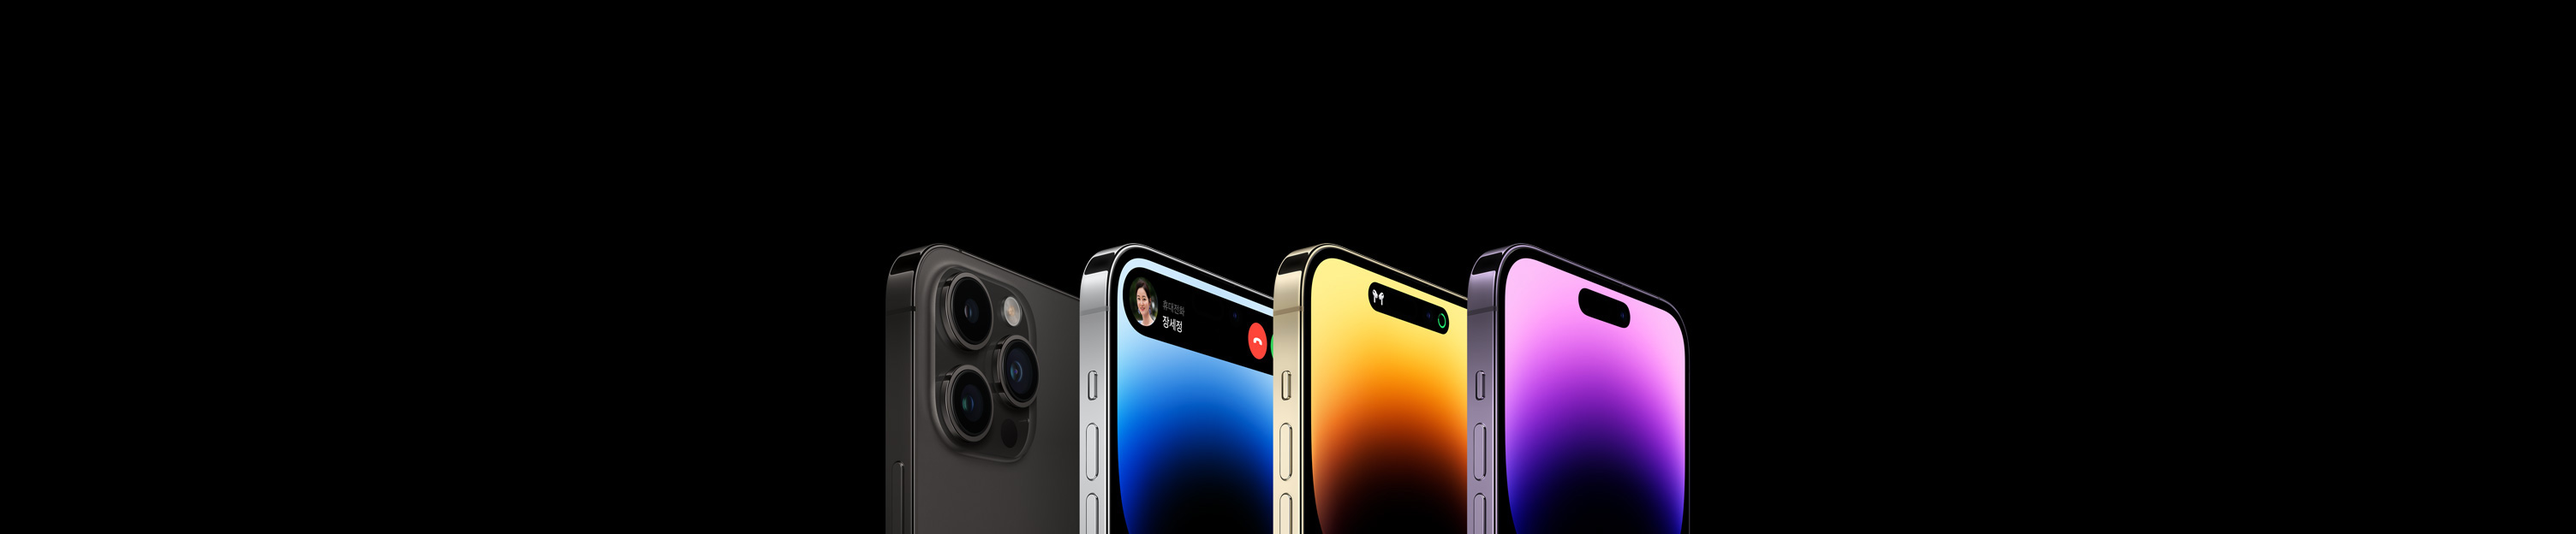
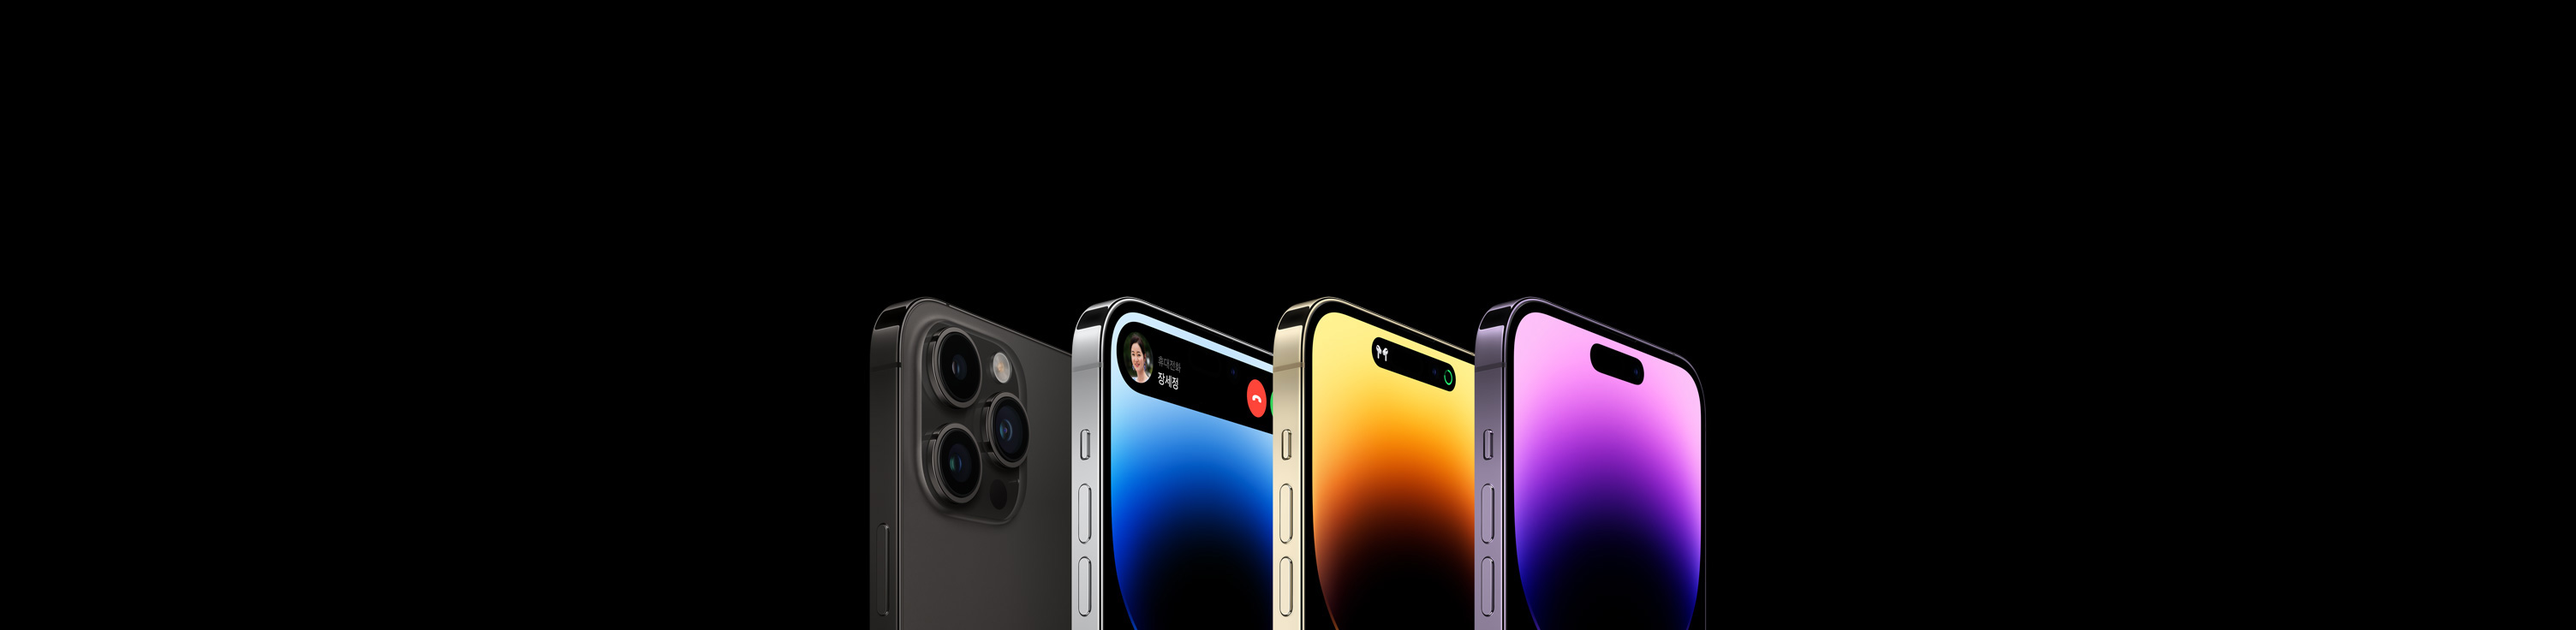
detail

Changed region(s): [[0.3125, 0.4567, 0.6875, 1.0]]

diff --git a/index.html b/index.html
@@ -10,108 +10,118 @@
 <body>
   <header>
     <div class="nav">
-      <ul>
-        <a href="/">사과</a>
-        <li>스토어</li>
-        <li>Mac</li>
-        <li>iPad</li>
-        <li>iPhone</li>
-        <li>Watch</li>
-        <li>AirPods</li>
-        <li>TV 및 홈</li>
-        <li>엔터테인먼트</li>
-        <li>액세서리</li>
-        <li>고객지원</li>
-        <li>서치아이콘</li>
-        <li>장바구니아이콘</li>
-      </ul>
+      <div class="menu">
+        <ul>
+          <a href="/">사과</a>
+          <li>스토어</li>
+          <li>Mac</li>
+          <li>iPad</li>
+          <li>iPhone</li>
+          <li>Watch</li>
+          <li>AirPods</li>
+          <li>TV 및 홈</li>
+          <li>엔터테인먼트</li>
+          <li>액세서리</li>
+          <li>고객지원</li>
+          <li>서치아이콘</li>
+          <li>장바구니아이콘</li>
+        </ul>
+      </div>
+      
     </div>
     <div class="var">
-      <p>iPhone 7 Plus 이후 모델을 보상 판매하면 iPhone 14 또는 iPhone 14 Pro 구입 시 사용할 수 있는 ₩40,000-₩780,000 상당의 크레딧이.1 iPhone 쇼핑하기</p>
+      <p>iPhone 7 Plus 이후 모델을 보상 판매하면 iPhone 14 또는 iPhone 14 Pro 구입 시 사용할 수 있는 ₩40,000-₩780,000 상당의 크레딧이.
+        <a href="">1</a>
+        <a href="">iPhone 쇼핑하기 ></a> 
+      </p>
     </div>
   </header>
   <div class="container">
     <div class="view">
-      <div class="phone14pro" >
-        <div class="desc">
-          <p class="title">iPhone 14 Pro</p>
-          <p>프로 그 이상.</p>
-          <a href="" class="more">더 알아보기 ></a>
-          <a href="" class="purchase">구입하기 ></a>
+      <div class="main1">
+        <div class="phone14pro" >
+          <div class="desc">
+            <p class="title">iPhone 14 Pro</p>
+            <p>프로 그 이상.</p>
+            <a href="" class="more">더 알아보기 ></a>
+            <a href="" class="purchase">구입하기 ></a>
+          </div>
+          <img src="./images/main1.jpg" alt="14pro">
         </div>
-        <img src="./images/main1.jpg" alt="14pro">
-      </div>
-      <div class="phone14">
-        <div class="desc">
-          <p class="title">iPhone 14</p>
-          <p>놀라움 한가득.</p>
-          <a href="" class="more">더 알아보기 ></a>
-          <a href="" class="purchase">구입하기 ></a>
+        <div class="phone14">
+          <div class="desc">
+            <p class="title">iPhone 14</p>
+            <p>놀라움 한가득.</p>
+            <a href="" class="more">더 알아보기 ></a>
+            <a href="" class="purchase">구입하기 ></a>
+          </div>
+          <img src="./images/main2.jpg" alt="14">
         </div>
-        <img src="./images/main2.jpg" alt="14">
-      </div>
-      <div class="watch">
-        <div class="desc">
-          <p class="title">WATCH</p>
-          <p class="series">SERIES 8</p>
-          <p>건강하게 앞서 나아가다.</p>
-          <a href="" class="more">더 알아보기 ></a>
-          <a href="" class="purchase">구입하기 ></a>
+        <div class="watch">
+          <div class="desc">
+            <h2 class="title"></h2>
+            <p>건강하게 앞서 나아가다.</p>
+            <a href="" class="more">더 알아보기 ></a>
+            <a href="" class="purchase">구입하기 ></a>
+          </div>
+          <img src="./images/main3.jpg" alt="watch">
         </div>
-        <img src="./images/main3.jpg" alt="watch">
       </div>
       <section>
-        <div class="trane_In" >
-          <div class="desc">
-            <p class="title">Trade In</p>
-            <p>더욱 부담 없이 업그레이드할 수 있는 간단한 방법.</p>
-            <a href="" class="more">쓰던 기기의 가치 확인하기></a>
+        <div class="main2">
+          <div class="trane_In" >
+            <div class="desc">
+              <p class="title">Trade In</p>
+              <p>더욱 부담 없이 업그레이드할 수 있는 간단한 방법.</p>
+              <a href="" class="more">쓰던 기기의 가치 확인하기></a>
+            </div>
+            <img src="./images/grid1.jpg" alt="">
           </div>
-          <img src="./images/grid1.jpg" alt="">
-        </div>
-        <div class="WWDC23">
-          <div class="desc">
-            <p class="title">WWDC23</p>
-            <p>Apple WWDC(세계개발자회의).<br>6월 5일-9일(태평양 연안 표준시), 온라인에서 만나요</p>
-            <a href="" class="more">더 알아보기 ></a>
+          <div class="WWDC23">
+            <div class="desc">
+              <p class="title">WWDC23</p>
+              <p>Apple WWDC(세계개발자회의).<br>6월 5일-9일(태평양 연안 표준시), 온라인에서 만나요</p>
+              <a href="" class="more">더 알아보기 ></a>
+            </div>
+            <img src="./images/grid2.jpg" alt="">
           </div>
-          <img src="./images/grid2.jpg" alt="">
-        </div>
-        <div class="ipad">
-          <div class="desc">
-            <p class="title">iPad</p>
-            <p>쓰다. 그리다. 빠져들다.</p>
-            <a href="" class="more">더 알아보기 ></a>
-            <a href="" class="purchase">구입하기 ></a>
+          <div class="ipad">
+            <div class="desc">
+              <p class="title">iPad</p>
+              <p>쓰다. 그리다. 빠져들다.</p>
+              <a href="" class="more">더 알아보기 ></a>
+              <a href="" class="purchase">구입하기 ></a>
+            </div>
+            <img src="./images/grid3.jpg" alt="">
           </div>
-          <img src="./images/grid3.jpg" alt="">
-        </div>
-        <div class="macbookpro">
-          <div class="desc">
-            <p class="title">MacBook Pro</p>
-            <p>막강한 성능의 M2 Pro 또는 M2 Max 칩 탑재.</p>
-            <a href="" class="more">더 알아보기 ></a>
-            <a href="" class="purchase">구입하기 ></a>
+          <div class="macbookpro">
+            <div class="desc">
+              <p class="title">MacBook Pro</p>
+              <p>막강한 성능의 M2 Pro 또는 M2 Max 칩 탑재.</p>
+              <a href="" class="more">더 알아보기 ></a>
+              <a href="" class="purchase">구입하기 ></a>
+            </div>
+            <img src="./images/grid4.jpg" alt="">
           </div>
-          <img src="./images/grid4.jpg" alt="">
-        </div>
-        <div class="present">
-          <div class="desc">
-            <p class="title">다채롭게 만개한 <br> 어버이날 선물</p>
-            <p>부모님께 고마움을 표하는 <br> 더욱 다양한 방법.</p>
-            <a href="" class="more">쉽게 선물 쇼핑하기 ></a>
+          <div class="present">
+            <div class="desc">
+              <p class="title">다채롭게 만개한 <br> 어버이날 선물</p>
+              <p>부모님께 고마움을 표하는 <br> 더욱 다양한 방법.</p>
+              <a href="" class="more">쉽게 선물 쇼핑하기 ></a>
+            </div>
+            <img src="./images/grid5.jpg" alt="">
           </div>
-          <img src="./images/grid5.jpg" alt="">
-        </div>
-        <div class="airpodspro">
-          <div class="desc">
-            <p class="title">AirPods Pro</p>
-            <p>최대 2배 강력해진 <br> 액티브 노이즈 캔슬링.</p>
-            <a href="" class="more">더 알아보기 ></a>
-            <a href="" class="purchase">구입하기 ></a>
+          <div class="airpodspro">
+            <div class="desc">
+              <p class="title">AirPods Pro</p>
+              <p>최대 2배 강력해진 <br> 액티브 노이즈 캔슬링.</p>
+              <a href="" class="more">더 알아보기 ></a>
+              <a href="" class="purchase">구입하기 ></a>
+            </div>
+            <img src="./images/grid6.jpg" alt="">
           </div>
-          <img src="./images/grid6.jpg" alt="">
         </div>
+        
       </section>
         
       <div class="movies">

diff --git a/main.css b/main.css
@@ -1,33 +1,40 @@
 * {
-  margin: 0px;
+  margin: 0;
+  padding: 0;
   list-style: none;
   text-decoration: none;
 }
 img {
   display: block;
 }
-
+a {
+  color: #2997ff;
+}
 header .nav {
-  display: flex;
-  height: 44px;
   background-color: rgba(22, 22, 23, .8);
 }
-header .nav ul {
+header .nav .menu {
+  display: flex;
+  height: 44px;
+  width: 1024px;
+  margin: auto;
+}
+header .nav .menu ul {
   margin: auto;
   display: flex;
   list-style: none;
 }
-header .nav ul a {
+header .nav .menu ul a {
   margin: auto 20px;
   color: aliceblue;
 }
-header .nav ul li {
+header .nav .menu ul li {
   margin: auto 15px;
   font-size: 12px;
   color: aliceblue;
 }
 header .var {
-  height: 44px;
+  height: 46px;
   display: flex;
   align-items: center;
   justify-content: center;
@@ -43,22 +50,22 @@ header .var p {
 }
 .container .view {
   position: absolute;
-  background-size: cover;
 }
 .container .view img {
   height: 580px;
   width: 100%;
-  object-fit: none;
+  object-fit: cover;
 }
-.container .view section {
-  height: 100%;
+.container .view .main1 img {
+  height: 692px;
   width: 100%;
-  display: flex;
+  object-fit: cover;
 }
+
 
 .container .view .phone14pro {
   width: 100%;
-  margin-bottom: 10px;
+  margin-bottom: 14px;
   position: relative;
 }
 .container .view .phone14pro .desc {
@@ -116,6 +123,10 @@ header .var p {
   font-size: 28px;
   margin-top: 40px;
 }
+.container .view .watch .desc .watch_title img {
+  height: 56px;
+  width: 56px;
+}
 .container .view .watch .desc .title {
   font-size: 56px;
   font-weight: 700;
@@ -126,11 +137,13 @@ header .var p {
   color: #2997ff;
 }
 
+
 /* section */
-.container .view section {
+.container .view section .main2 {
   display: grid;
-  gap: 10px;
-  grid-template-columns: 50% 50%;
+  gap: 12px;
+  grid-template-columns: 1fr 1fr;
+  margin: 12px;
 }
 .container .view section .trane_In{
   position: relative;
